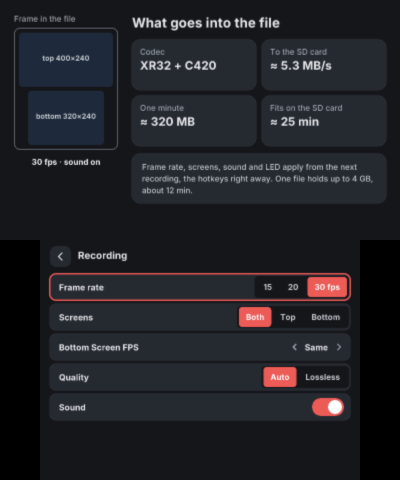
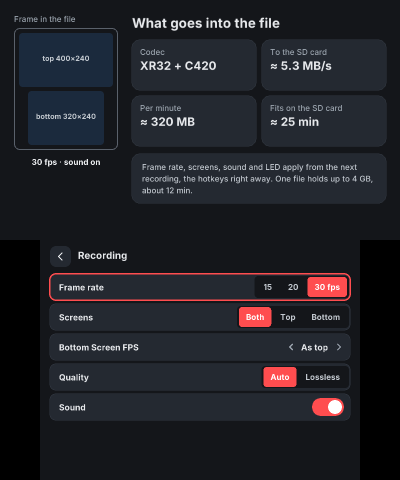
docs: README screenshots and text for 1.5.0
New console screenshots of the panel, Settings and the language grid, and the Recording settings
from Azahar ("As top", "Per minute", the language's units); an MP4 lies next to a converted
recording only; Noto Sans JP / SC / TC credited, with their license next to Inter's.

diff --git a/README.uk.md b/README.uk.md
@@ -61,7 +61,7 @@ https://github.com/user-attachments/assets/122e7c76-d4c6-4f60-9426-aeed7d322776
 | **Повтор** | Увімкніть **Повтор 30 с** у плитці «Рекордер»; у грі **X + SELECT** зберігає останні 30 секунд кліпом. |
 | **Перегляд** | Галерея → **A**. |
 | **На телефон** | Галерея → **Y** на записі, відскануйте QR-код камерою телефона, натисніть **Зберегти відео**. iPhone і Android, нічого ставити не треба. |
-| **З SD-картки** | `/3ds/recorder/recordings/`: поруч із кожним `.r3d` лежить `.mp4`. Лише `.r3d`? Перетягніть його на [сторінку конвертера](https://bolgarmaxym97.github.io/3ds-recorder/) — MP4 зробить браузер, нічого не вивантажується. |
+| **З SD-картки** | `/3ds/recorder/recordings/`: поруч зі сконвертованим `.r3d` лежить `.mp4`. Лише `.r3d`? Перетягніть його на [сторінку конвертера](https://bolgarmaxym97.github.io/3ds-recorder/) — MP4 зробить браузер, нічого не вивантажується. |
 
 **LED:** синій на мить — готово · червоний «дихає» — іде запис · слабкий синій — Повтор увімкнено · зелений двічі —
 збережено · червоний тричі — щось не так (найчастіше заповнена SD-картка), відкрийте додаток, щоб побачити причину.
@@ -132,7 +132,8 @@ https://github.com/user-attachments/assets/122e7c76-d4c6-4f60-9426-aeed7d322776
 [Luma3DS](https://github.com/LumaTeam/Luma3DS), [devkitPro / libctru / citro2d](https://devkitpro.org),
 [minih264](https://github.com/lieff/minih264), [vo-aacenc](https://github.com/mstorsjo/vo-aacenc) (Apache 2.0),
 [QR Code generator](https://www.nayuki.io/page/qr-code-generator-library) (MIT),
-[mp4-muxer](https://github.com/Vanilagy/mp4-muxer) (MIT), шрифт [Inter](https://rsms.me/inter/) (SIL OFL).
+[mp4-muxer](https://github.com/Vanilagy/mp4-muxer) (MIT), шрифти [Inter](https://rsms.me/inter/) і
+[Noto Sans JP / SC / TC](https://fonts.google.com/noto) (SIL OFL).
 Їхні ліцензії лежать поруч з їхнім кодом у `third_party/`, `web/vendor/` і `app/assets/fonts/`.
 
 ## Ліцензія

diff --git a/README.md b/README.md
@@ -63,7 +63,7 @@ recordings stay.
 | **Replay** | Switch **Replay 30 s** on in the Recorder tile; in a game, **X + SELECT** saves the last 30 seconds as a clip. |
 | **Watch** | Gallery → **A**. |
 | **To the phone** | Gallery → **Y** on a recording, scan the QR code with the phone's camera, tap **Save the video**. iPhone and Android, nothing to install. |
-| **From the SD card** | `/3ds/recorder/recordings/`: an `.mp4` next to each `.r3d`. Only an `.r3d`? Drop it on the [converter page](https://bolgarmaxym97.github.io/3ds-recorder/) — the browser makes the MP4, nothing is uploaded. |
+| **From the SD card** | `/3ds/recorder/recordings/`: an `.mp4` next to each converted `.r3d`. Only an `.r3d`? Drop it on the [converter page](https://bolgarmaxym97.github.io/3ds-recorder/) — the browser makes the MP4, nothing is uploaded. |
 
 **The LED:** blue for a moment — ready · red, breathing — recording · faint blue — Replay is on · green twice — saved ·
 red three times — something went wrong (usually a full SD card), open the app to see why.
@@ -133,7 +133,8 @@ tick the box. Luma settings are not changed.
 [Luma3DS](https://github.com/LumaTeam/Luma3DS), [devkitPro / libctru / citro2d](https://devkitpro.org),
 [minih264](https://github.com/lieff/minih264), [vo-aacenc](https://github.com/mstorsjo/vo-aacenc) (Apache 2.0),
 [QR Code generator](https://www.nayuki.io/page/qr-code-generator-library) (MIT),
-[mp4-muxer](https://github.com/Vanilagy/mp4-muxer) (MIT), [Inter](https://rsms.me/inter/) font (SIL OFL).
+[mp4-muxer](https://github.com/Vanilagy/mp4-muxer) (MIT), [Inter](https://rsms.me/inter/) and
+[Noto Sans JP / SC / TC](https://fonts.google.com/noto) fonts (SIL OFL).
 Their licenses are next to their code in `third_party/`, `web/vendor/` and `app/assets/fonts/`.
 
 ## License
